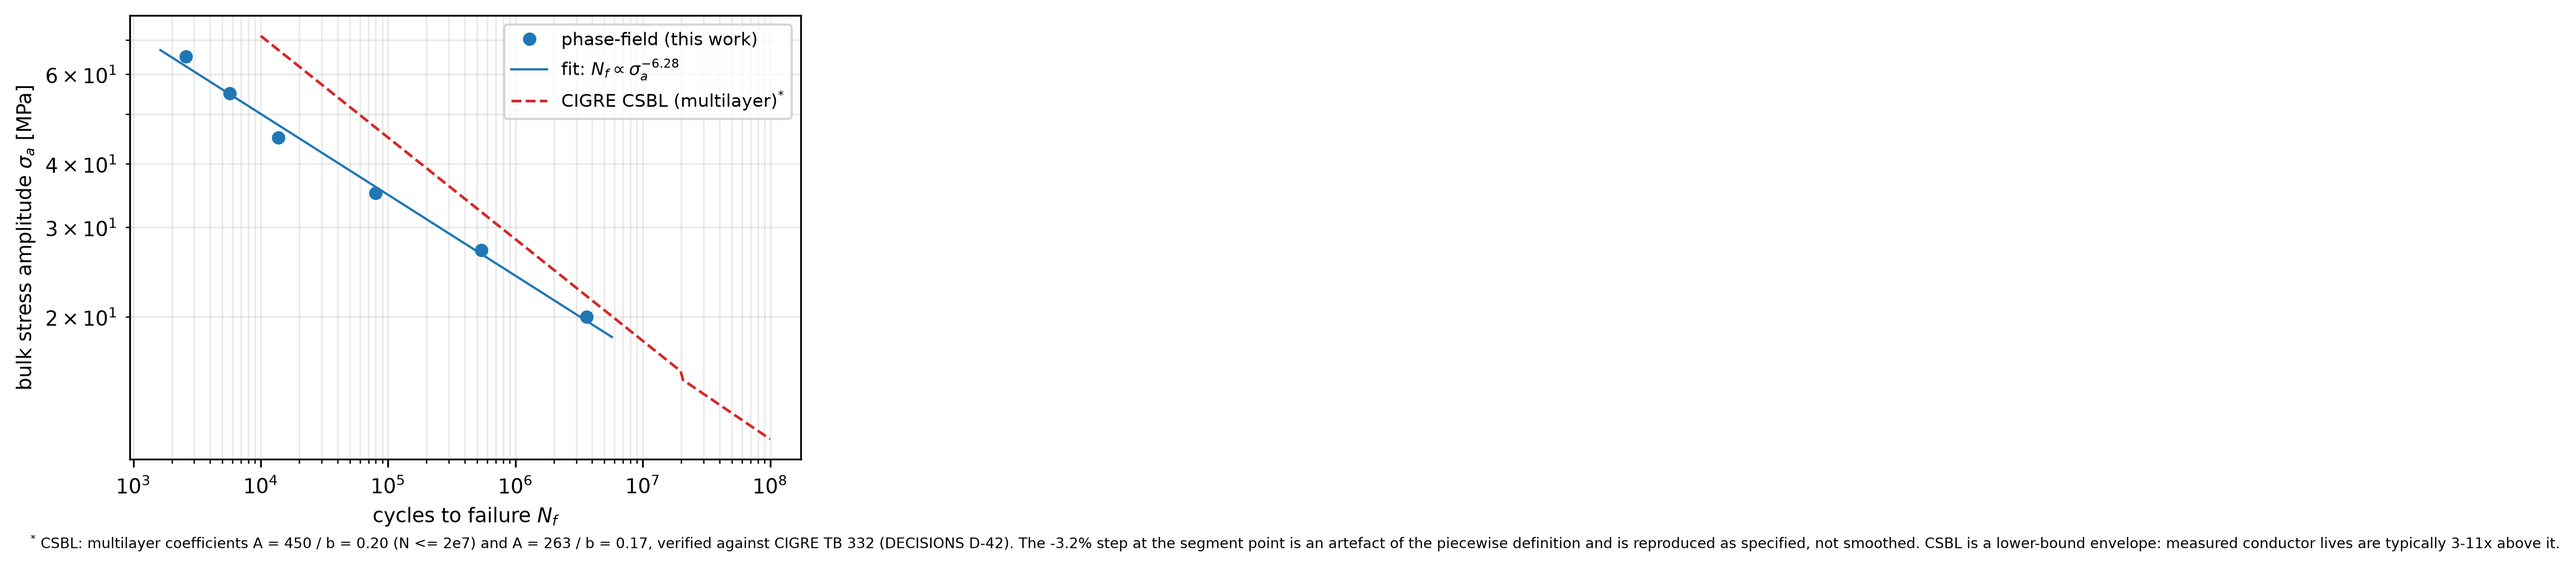
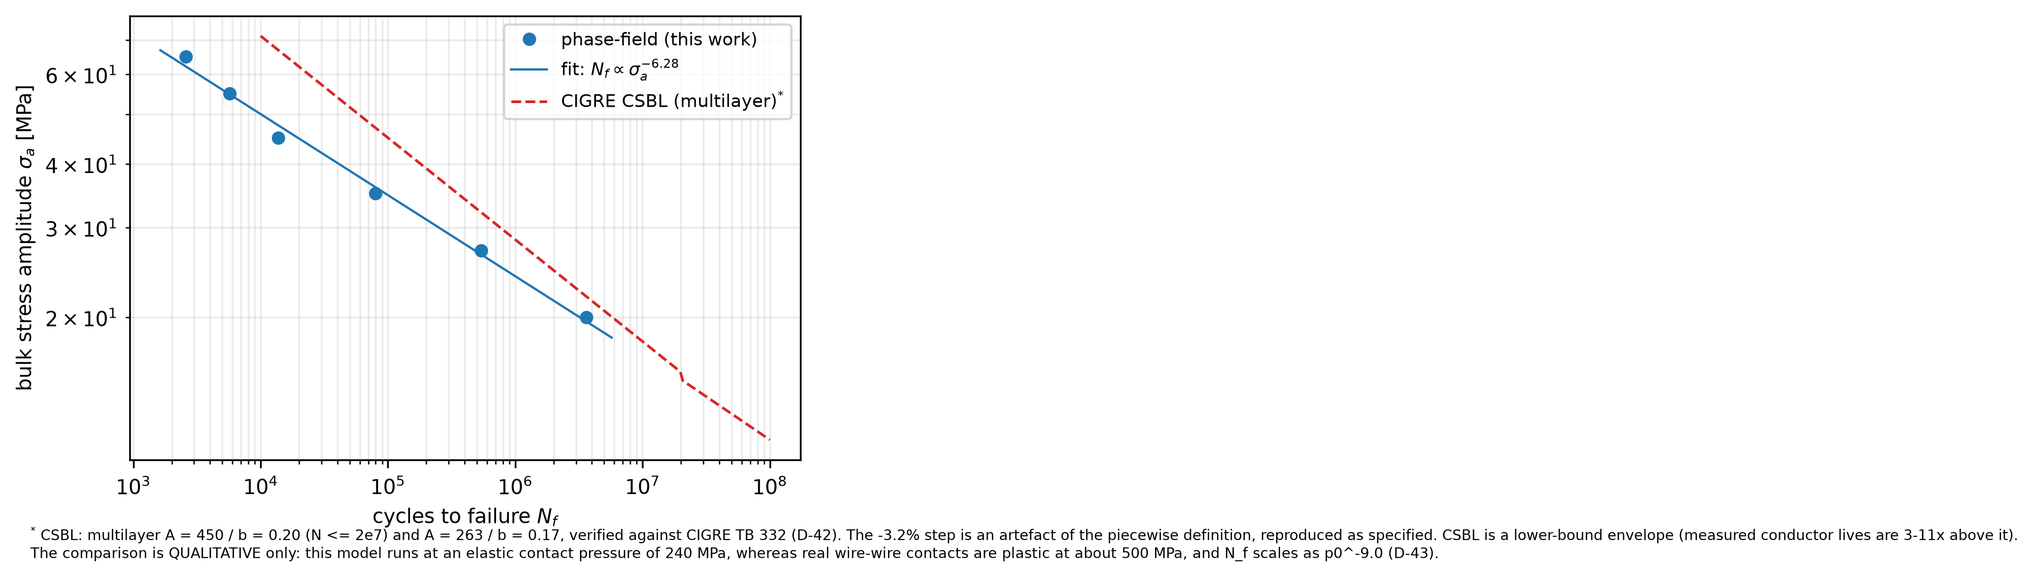
定稿论文定位：报机理与相对敏感度，不报绝对寿命（D-43，用户拍板）
查阅 TB 332 参考文献后得出的依据：文献单丝试验（Zhou/Cardou，同为 H19 铝丝）
压紧 130-4000 N，名义赫兹 p0 = 2.2-6.9 GPa，是压入硬度 3σy≈495 MPa 的
4.5-14 倍，接触全塑性（原文亦称 plastically deformed contact zone），
实际压力饱和在约 500 MPa；轴向平均应力 59 MPa。
本模型跑在 240 MPa 弹性、σ_m=0，上界由 σ_c=σ_u=185 MPa 卡死。

后果是定量的：本模型实测 N_f ∝ p0^-8.97，若在 500 MPa 下运行寿命变为 1/721，
σ_a=35 那档从 8.0e4 掉到约 111 周期。故绝对 N_f 不具预测性。

要进入文献条件就得改 σ_c 的锚定，会推翻 D-2、D-26 标定与全部已算结果，
等于从 Phase 1 重来。用户决定不改，接受「报机理与相对敏感度」的定位。

报：滑移区萌生（七工况两个载荷方向一致）、两段式倾斜-回转、失稳扩展；
    σ_a^-6.28 与 p0^-8.97 及其 1.4 倍的比值；网格收敛的定量界（GCI 3.9%）。
不报：绝对 N_f 与 CSBL 的定量吻合。图 6 图注已改写，明确标注为定性对照。

两个在跑的算例在新定位下仍有价值：sn_sigma27_l6 验证的 k 影响的正是指数；
meanstress_sm31 量的是 σ_m 的相对敏感度，可与资料的 EDS 20%->30% 降 2 倍对照。

另记：spectral 下峰值总应力门槛临界在 69-72 MPa（66.3->0.968x 零越界、
72.0->1.021x 有越界）；以及一条不可引用的搜索摘要称 AA1350 微动疲劳极限
185 MPa —— 那是它的抗拉强度，摘要把 UTS 当成了疲劳极限。

diff --git a/src/pfwire/postproc.py b/src/pfwire/postproc.py
@@ -226,13 +226,19 @@ def fig6_sn_curve(conductor: str = "configs/conductor_jl1_lha1_465_210.yaml"
     # D-42：TB 332 已核对（2026-09-23）。系数与原文一致，分段点由二手文献的
     # 1.56e7 更正为原文的 2e7。折点是分段定义的人为产物（原文亦如此说明），
     # **不得平滑** —— 平滑等于拿一条自己编的曲线跟文献比。
-    fig.text(0.01, -0.045,
-             "$^{*}$ CSBL: multilayer coefficients A = 450 / b = 0.20 "
-             "(N <= 2e7) and A = 263 / b = 0.17, verified against CIGRE "
-             "TB 332 (DECISIONS D-42). The -3.2% step at the segment point is "
-             "an artefact of the piecewise definition and is reproduced as "
-             "specified, not smoothed. CSBL is a lower-bound envelope: measured "
-             "conductor lives are typically 3-11x above it.", fontsize=6.5)
+    # D-43：本模型的接触压力（240 MPa 弹性）远低于真实工况（塑性、约 500 MPa），
+    # 而 N_f ∝ p0^−8.97 —— 绝对寿命不可直接比。CSBL 只作**定性**参照，
+    # 图注必须说清楚，否则读者会把这张图读成定量验证。
+    fig.text(0.01, -0.06,
+             "$^{*}$ CSBL: multilayer A = 450 / b = 0.20 (N <= 2e7) and "
+             "A = 263 / b = 0.17, verified against CIGRE TB 332 (D-42). The "
+             "-3.2% step is an artefact of the piecewise definition, "
+             "reproduced as specified. CSBL is a lower-bound envelope "
+             "(measured conductor lives are 3-11x above it).\n"
+             "The comparison is QUALITATIVE only: this model runs at an "
+             "elastic contact pressure of 240 MPa, whereas real wire-wire "
+             "contacts are plastic at about 500 MPa, and N_f scales as "
+             "p0^-9.0 (D-43).", fontsize=6.5)
     return _save(fig, "fig6_sn_curve.png")
 
 

diff --git a/DECISIONS.md b/DECISIONS.md
@@ -1635,3 +1635,62 @@ TB 332 原文」—— 我们当初引的就是那个二手版本。
 
 **状态**：D-25 的 (2) 结清。参考文献清单（GB/T 7714 格式，16 条）已在资料中，
 写作时直接引用；CSBL 概念原始出处为 Electra 1985(100): 77-86。
+
+
+---
+
+## D-43 论文定位：报机理与相对敏感度，**不报绝对寿命**（用户 2026-09-23 拍板）
+
+### 依据：文献试验条件在本模型的可用窗口之外
+查阅用户提供的 TB 332 参考文献（Zhou/Cardou 单丝试验等）后得出：
+
+| 项 | 文献（H19 铝单丝试验） | 本模型 | 差距 |
+|---|---|---|---|
+| 接触压力 | 压紧 130–4000 N，名义赫兹 p0 = 2.2–6.9 GPa，**4.5–14 × 压入硬度（3σy ≈ 495 MPa）**，接触全塑性（原文亦称 plastically deformed contact zone），实际压力饱和在约 500 MPa | **240 MPa，弹性** | 约 2 倍压力 |
+| 轴向平均应力 | **59 MPa** | 0（σ_m = 31 的敏感度工况在跑） | 够不到 |
+
+**后果是定量的**：本模型实测 `N_f ∝ p0^(−8.97)`（D-39）。若在 500 MPa 下运行，
+寿命将变为现在的 **1/721** —— σ_a = 35 那档从 8.0e4 掉到约 **111 周期**。
+**所以本模型的绝对 N_f 不具预测性。**
+
+### 根因：D-2 把 σ_c 锚到 σ_u = 185 MPa
+这一个选择同时卡死了两个上界：
+- p0 ≤ 约 260 MPa（D-27/D-28）；
+- 峰值总应力 σ_m + σ_a ≤ 约 69 MPa（D-43 实测，见下）。
+
+要进入文献条件就得改 σ_c 的锚定方式，那会推翻 D-2、D-26 的标定与**全部已算结果**，
+等于从 Phase 1 重来。**用户决定不改。**
+
+### 定稿的论文定位
+**报**：
+- 机理 —— 滑移区萌生（|x|/a = 1.00–1.06，七工况两个载荷方向一致）、
+  两段式「先偏离竖直（到约 −34° @1.7a）后部分回转」、逃出接触场后失稳扩展；
+- 相对敏感度 —— `N_f ∝ σ_a^(−6.28)`（修正后 −6.11）与 `N_f ∝ p0^(−8.97)`
+  （修正后 −9.21），以及**接触压力敏感度约为本体应力的 1.4 倍**这一结论；
+- 网格收敛的定量界（p = 3.07、GCI = 3.9%、生产网格偏高 12.1%，D-41）。
+
+**不报**（或只作定性对照并注明）：
+- 绝对 N_f 与 CIGRE CSBL 的定量吻合程度。图 6 的 CSBL 曲线保留作**定性**参照，
+  图注须写明本模型接触压力低于真实工况、绝对寿命不可直接比。
+
+### 顺带确认：两个在跑的算例在新定位下仍然有价值
+- `sn_sigma27_l6`：验证扩展寿命修正系数 k 与载荷无关 —— 它影响的正是**指数**，
+  而指数是要报的；
+- `meanstress_sm31`：量的是 σ_m 的**相对**敏感度，可与资料的「EDS 20%→30% 寿命降约 2 倍」对照。
+
+两者都继续。
+
+### 查阅中记下的两件事
+1. **可用窗口的实测边界**：spectral 下峰值总应力 66.3 MPa → 0.968× 门槛零越界；
+   69.0 → 0.993×；**72.0 → 1.021× 有越界**。故临界在 69–72 MPa。
+2. **一条不可引用的搜索摘要**：某处称「AA1350 的微动疲劳极限为 185 MPa」——
+   185 MPa 正是 AA1350-H19 的**抗拉强度**（也正是本项目取的 σ_c）。
+   微动疲劳极限不可能等于抗拉强度，这是摘要把 UTS 当成了疲劳极限。
+
+### 独立交叉印证（支持上述定位）
+- Bersfort 导线耐久限 Y_b = 0.20–0.25 mm（峰峰），按 P–S 换算 ≈ 6.2–7.8 MPa，
+  与资料给的「绞合后名义值约 8.5 MPa」同量级 —— 两个独立来源一致；
+- 本模型外推到 1e8 给 11.0–11.6 MPa，相对单丝平疲劳 35 MPa 的**微动折减 3.0–3.2 倍**，
+  落在典型范围，且位于「单丝平疲劳」与「绞合后」之间（D-42）。
+  这说明机理层面的量级是对的，与「绝对寿命不可用」并不矛盾 ——
+  前者是**相对关系**，后者是绝对标定。

diff --git a/PLAN.md b/PLAN.md
@@ -257,7 +257,10 @@ f(ᾱ) 单调性、ΔN 调节逻辑）；SENT 静态算例单核 < 10 min。
 论文结构：Intro / Phase-field fatigue model / Fretting fatigue model of Al wire /
 Verification / Results & discussion / Conclusions & future work。
 Discussion 必须包含：(a) 为什么不做磨损——用 Archard 估算说明本工况磨损深度 ≪ 裂纹深度；
-(b) "单丝首裂"与 CIGRE"导线断丝"定义差异。
+(b) "单丝首裂"与 CIGRE 失效定义的关系（D-42：TB 332 用**首丝断裂**，比原先假设的差异小）；
+(c) **绝对寿命不具预测性**（D-43，用户 2026-09-23 拍板的定位）——真实接触是塑性的、
+    压力约 500 MPa，本模型被 σ_c = σ_u = 185 MPa 卡在 240 MPa 弹性，而 N_f ∝ p0^−8.97，
+    差距约 721 倍。论文报**机理与相对敏感度**，CSBL 对比只作定性参照。
 
 ---
 
